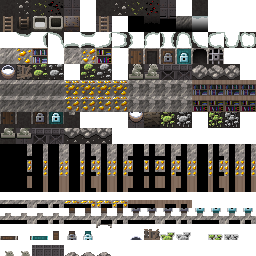
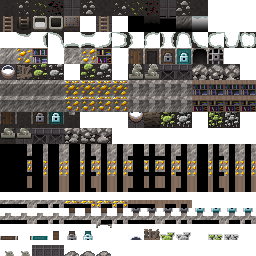
v4.0.0: overhauled visuals for gnoll caves quest, now much more rocky

diff --git a/core/src/main/java/com/shatteredpixel/shatteredpixeldungeon/tiles/DungeonTileSheet.java b/core/src/main/java/com/shatteredpixel/shatteredpixeldungeon/tiles/DungeonTileSheet.java
@@ -54,11 +54,15 @@ public class DungeonTileSheet {
 	public static final int EMBERS          = GROUND +3;
 	public static final int FLOOR_SP        = GROUND +4;
 
+	public static final int MINE_FLOOR_DECO_HEAVY   = GROUND +5;
+
 	public static final int FLOOR_ALT_1     = GROUND +6;
 	public static final int FLOOR_DECO_ALT  = GROUND +7;
 	public static final int GRASS_ALT       = GROUND +8;
 	public static final int EMBERS_ALT      = GROUND +9;
 	public static final int FLOOR_SP_ALT    = GROUND +10;
+
+	public static final int MINE_FLOOR_DECO_HEAVY_ALT   = GROUND +11;
 
 	public static final int FLOOR_ALT_2     = GROUND +12;
 
@@ -401,12 +405,6 @@ public class DungeonTileSheet {
 	public static final int MINE_BOULDER_OVERHANG_ALT   = OTHER_OVERHANG+13;
 	public static final int MINE_BOULDER_OVERHANG_ALT_2 = OTHER_OVERHANG+14;
 
-	public static final int HIGH_GRASS_UNDERHANG        = OTHER_OVERHANG+18;
-	public static final int FURROWED_UNDERHANG          = OTHER_OVERHANG+19;
-
-	public static final int HIGH_GRASS_UNDERHANG_ALT    = OTHER_OVERHANG+21;
-	public static final int FURROWED_UNDERHANG_ALT      = OTHER_OVERHANG+22;
-
 	/**********************************************************************
 	 * Logic for the selection of tile visuals
 	 **********************************************************************/
@@ -431,6 +429,7 @@ public class DungeonTileSheet {
 		directVisuals.put(Terrain.CUSTOM_DECO_EMPTY,directVisuals.get(Terrain.EMPTY));
 		directVisuals.put(Terrain.CUSTOM_DECO_WTR,  WATER);
 
+		directVisuals.put(Terrain.EMPTY_DECO,       FLOOR_DECO);
 		directVisuals.put(Terrain.EMPTY_DECO,       FLOOR_DECO);
 		directVisuals.put(Terrain.LOCKED_EXIT,      LOCKED_EXIT);
 		directVisuals.put(Terrain.UNLOCKED_EXIT,    UNLOCKED_EXIT);
@@ -506,8 +505,6 @@ public class DungeonTileSheet {
 		tileAltVisuals.put(FLAT_BOOKSHELF,      new tileAlt(new float[]{50f}, FLAT_BOOKSHELF_ALT));
 		tileAltVisuals.put(FLAT_HIGH_GRASS,     new tileAlt(new float[]{50f}, FLAT_HIGH_GRASS_ALT));
 		tileAltVisuals.put(FLAT_FURROWED_GRASS, new tileAlt(new float[]{50f}, FLAT_FURROWED_ALT));
-		tileAltVisuals.put(FLAT_MINE_CRYSTAL,   new tileAlt(new float[]{52.5f, 5f}, FLAT_MINE_CRYSTAL_ALT, FLAT_MINE_CRYSTAL_ALT_2));
-		tileAltVisuals.put(FLAT_MINE_BOULDER,   new tileAlt(new float[]{52.5f, 5f}, FLAT_MINE_BOULDER_ALT, FLAT_MINE_BOULDER_ALT_2));
 
 		tileAltVisuals.put(RAISED_WALL,             new tileAlt(new float[]{50f}, RAISED_WALL_ALT));
 		tileAltVisuals.put(RAISED_WALL_DECO,        new tileAlt(new float[]{50f}, RAISED_WALL_DECO_ALT));
@@ -517,12 +514,15 @@ public class DungeonTileSheet {
 		tileAltVisuals.put(RAISED_FURROWED_GRASS,   new tileAlt(new float[]{50f}, RAISED_FURROWED_ALT));
 		tileAltVisuals.put(HIGH_GRASS_OVERHANG,     new tileAlt(new float[]{50f}, HIGH_GRASS_OVERHANG_ALT));
 		tileAltVisuals.put(FURROWED_OVERHANG,       new tileAlt(new float[]{50f}, FURROWED_OVERHANG_ALT));
+
+		tileAltVisuals.put(FLAT_MINE_CRYSTAL,       new tileAlt(new float[]{52.5f, 5f}, FLAT_MINE_CRYSTAL_ALT, FLAT_MINE_CRYSTAL_ALT_2));
 		tileAltVisuals.put(RAISED_MINE_CRYSTAL,     new tileAlt(new float[]{52.5f, 5f}, RAISED_MINE_CRYSTAL_ALT, RAISED_MINE_CRYSTAL_ALT_2));
-		tileAltVisuals.put(RAISED_MINE_BOULDER,     new tileAlt(new float[]{52.5f, 5f}, RAISED_MINE_BOULDER_ALT, RAISED_MINE_BOULDER_ALT_2));
-		tileAltVisuals.put(HIGH_GRASS_UNDERHANG,    new tileAlt(new float[]{50f}, HIGH_GRASS_UNDERHANG_ALT));
-		tileAltVisuals.put(FURROWED_UNDERHANG,      new tileAlt(new float[]{50f}, FURROWED_UNDERHANG_ALT));
 		tileAltVisuals.put(MINE_CRYSTAL_OVERHANG,   new tileAlt(new float[]{52.5f, 5f}, MINE_CRYSTAL_OVERHANG_ALT, MINE_CRYSTAL_OVERHANG_ALT_2));
-		tileAltVisuals.put(MINE_BOULDER_OVERHANG,   new tileAlt(new float[]{52.5f, 5f}, MINE_BOULDER_OVERHANG_ALT, MINE_BOULDER_OVERHANG_ALT_2));
+
+		tileAltVisuals.put(MINE_FLOOR_DECO_HEAVY,   new tileAlt(new float[]{50f}, MINE_FLOOR_DECO_HEAVY_ALT));
+		tileAltVisuals.put(FLAT_MINE_BOULDER,       new tileAlt(new float[]{66.7f, 33.3f}, FLAT_MINE_BOULDER_ALT, FLAT_MINE_BOULDER_ALT_2));
+		tileAltVisuals.put(RAISED_MINE_BOULDER,     new tileAlt(new float[]{66.7f, 33.3f}, RAISED_MINE_BOULDER_ALT, RAISED_MINE_BOULDER_ALT_2));
+		tileAltVisuals.put(MINE_BOULDER_OVERHANG,   new tileAlt(new float[]{66.7f, 33.3f}, MINE_BOULDER_OVERHANG_ALT, MINE_BOULDER_OVERHANG_ALT_2));
 	}
 
 	//alt visual priority is back to front, so put lowest chance ones last

diff --git a/core/src/main/java/com/shatteredpixel/shatteredpixeldungeon/tiles/DungeonTerrainTilemap.java b/core/src/main/java/com/shatteredpixel/shatteredpixeldungeon/tiles/DungeonTerrainTilemap.java
@@ -41,7 +41,17 @@ public class DungeonTerrainTilemap extends DungeonTilemap {
 	@Override
 	protected int getTileVisual(int pos, int tile, boolean flat) {
 		int visual = DungeonTileSheet.directVisuals.get(tile, -1);
-		if (visual != -1) return DungeonTileSheet.getVisualWithAlts(visual, pos);
+		if (visual != -1) {
+			if (visual == DungeonTileSheet.FLOOR_DECO) {
+				for (int i : PathFinder.NEIGHBOURS4) {
+					if (map[pos + i] == Terrain.MINE_BOULDER) {
+						visual = DungeonTileSheet.MINE_FLOOR_DECO_HEAVY;
+						break;
+					}
+				}
+			}
+			return DungeonTileSheet.getVisualWithAlts(visual, pos);
+		}
 
 		if (tile == Terrain.WATER) {
 			return DungeonTileSheet.stitchWaterTile(

diff --git a/core/src/main/java/com/shatteredpixel/shatteredpixeldungeon/sprites/ItemSpriteSheet.java b/core/src/main/java/com/shatteredpixel/shatteredpixeldungeon/sprites/ItemSpriteSheet.java
@@ -110,7 +110,7 @@ public class ItemSpriteSheet {
 		
 		assignItemRect(TENGU_BOMB,      10, 10);
 		assignItemRect(TENGU_SHOCKER,   10, 10);
-		assignItemRect(GEO_BOULDER,     16, 14);
+		assignItemRect(GEO_BOULDER,     16, 15);
 	}
 
 	private static final int CONTAINERS     =                               xy(1, 3);   //16 slots
